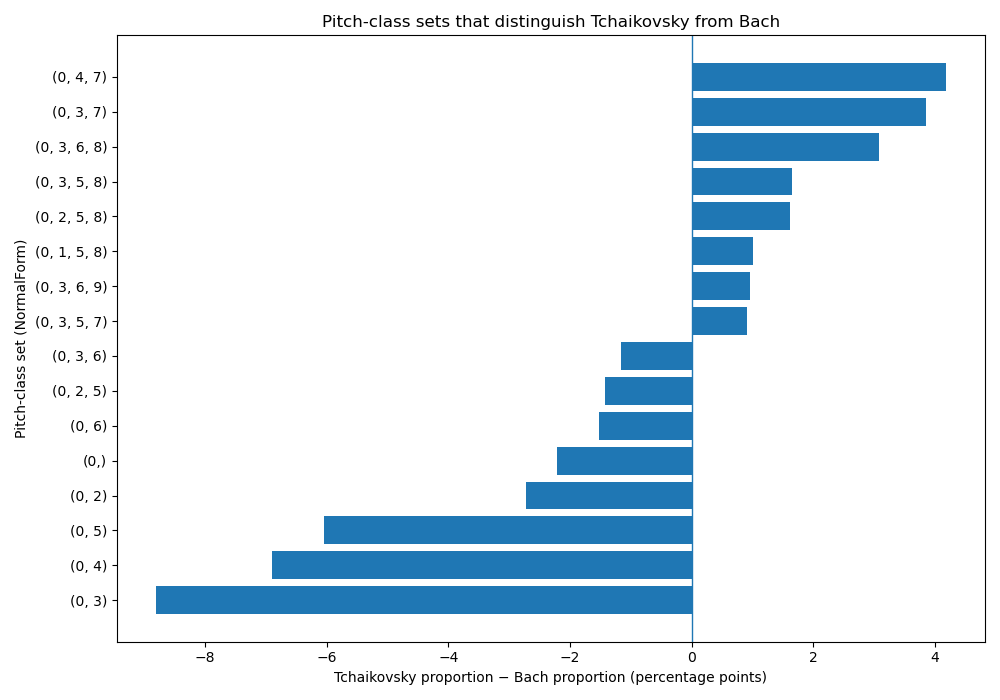
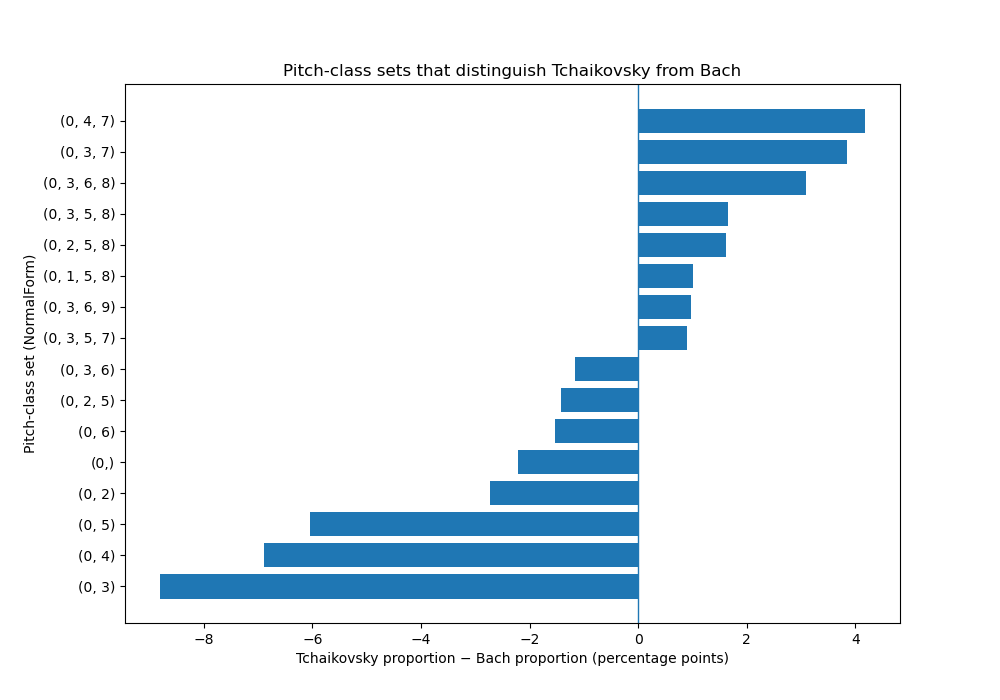
simplified code

diff --git a/test.py b/test.py
@@ -58,7 +58,6 @@ plt.xlabel("Harmonic vocabulary entropy (bits)")
 plt.ylabel("Number of compositions")
 plt.title("Harmonic vocabulary diversity: Bach vs. Tchaikovsky")
 plt.legend()
-plt.tight_layout()
 plt.savefig("bach_tchaikovsky_harmonic_entropy.png")
 #plt.show()
 
@@ -70,7 +69,6 @@ data = [
 plt.boxplot(data, labels=["Bach", "Tchaikovsky"], showfliers=False)
 plt.ylabel("Distinct pitch-class sets per composition")
 plt.title("Harmonic vocabulary size: Bach vs. Tchaikovsky")
-plt.tight_layout()
 plt.savefig("bach_tchaikovsky_harmonic_vocabulary.png")
 #plt.show()
 
@@ -92,7 +90,7 @@ plt.axvline(0, linewidth=1)
 plt.xlabel("Tchaikovsky proportion − Bach proportion (percentage points)")
 plt.ylabel("Pitch-class set (NormalForm)")
 plt.title("Pitch-class sets that distinguish Tchaikovsky from Bach")
-plt.tight_layout()
+
 plt.savefig("bach_tchaikovsky_distinctive_sonorities.png")
 #plt.show()
 
@@ -104,15 +102,10 @@ data = [
 plt.boxplot(data, labels=["Bach", "Tchaikovsky"], showfliers=True)
 plt.ylabel("Events containing a semitone pair (%)")
 plt.title("Chromatic sonority rate: Bach vs. Tchaikovsky")
-plt.tight_layout()
+
 plt.savefig("bach_tchaikovsky_chromatic_rate.png")
 #plt.show()
 
-print("Saved plots:")
-print("bach_tchaikovsky_harmonic_entropy.png")
-print("bach_tchaikovsky_harmonic_vocabulary.png")
-print("bach_tchaikovsky_distinctive_sonorities.png")
-print("bach_tchaikovsky_chromatic_rate.png")
 print("\nPiece counts:")
 print(piece_stats.groupby("composer").size())
 print("\nMedians:")
